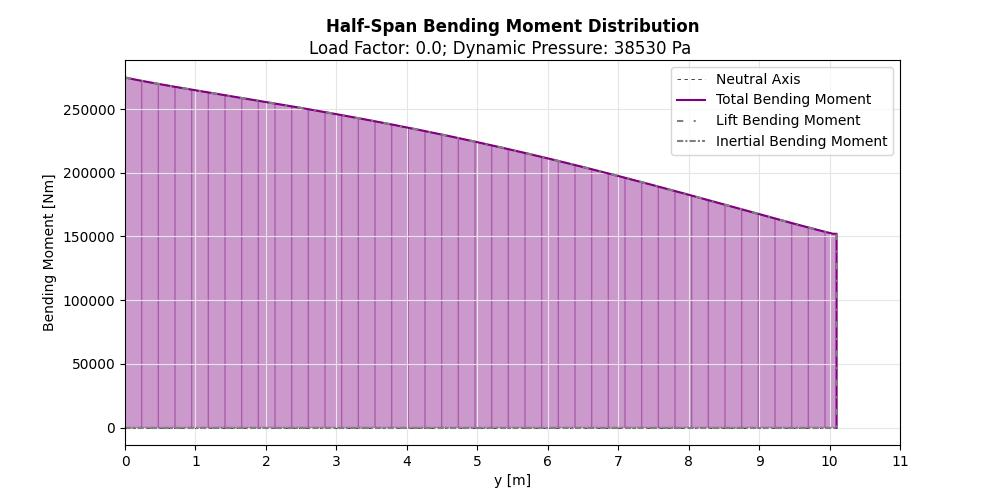
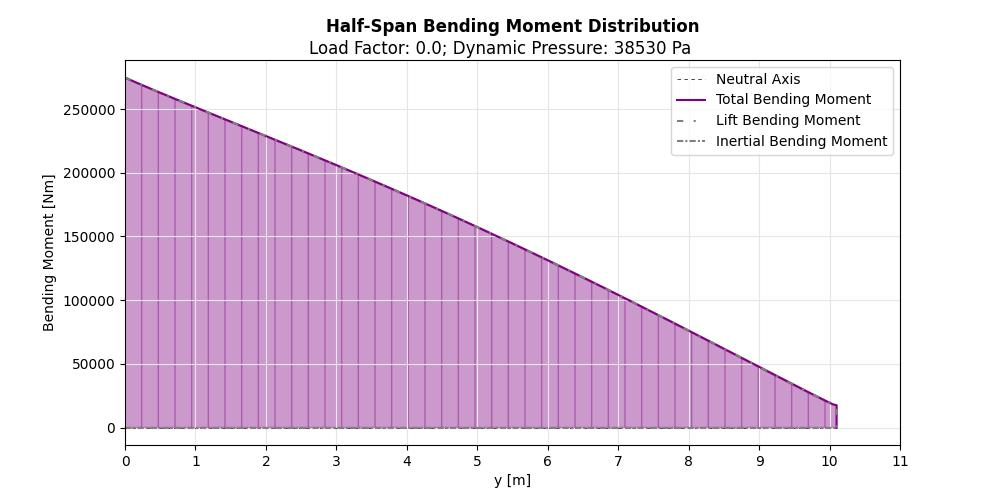
Graphing

Changed region(s): [[0.124, 0.15, 0.837, 0.81]]

diff --git a/main.py b/main.py
@@ -19,6 +19,10 @@ CL2 = sf*0    #0.133858438               #(float(input("Lift Coefficient C_L [-]
 nload1=sf*2.609587504
 CL1 = sf*0.133858438
 
+y=np.linspace(0,10.1,sample)
+x=np.linspace(0,10.1,sample)
+x=np.append(x,10.1)
+
 print("Calculating loading...\n")
 
 def calcForces(sf,nload,q,CL):
@@ -91,10 +95,10 @@ def calcForces(sf,nload,q,CL):
     torque_dist+=winglet_m_torque*nload
     torque_dist[400]=0
     
-    return sum_load,sum_shear,sum_moment,torque_dist
+    return sum_load,sum_shear,sum_moment,torque_dist,shear_dist,inertial_shear,bending_dist,inertial_moment
 
-sum_load1,sum_shear1,sum_moment1,torque_dist1=calcForces(1.5,nload1,q,CL1)
-sum_load2,sum_shear2,sum_moment2,torque_dist2=calcForces(1.5,nload2,q,CL2)
+sum_load1,sum_shear1,sum_moment1,torque_dist1,lift_shear1,inertial_shear1,lift_moment1,inertial_moment1=calcForces(1.5,nload1,q,CL1)
+sum_load2,sum_shear2,sum_moment2,torque_dist2,lift_shear2,inertial_shear2,lift_moment2,inertial_moment2=calcForces(1.5,nload2,q,CL2)
 
 # Plotting
 
@@ -164,7 +168,7 @@ def plot(x,sum_shear,lift_shear,inertial_shear,sum_moment,lift_moment,inertial_m
     plt.plot(x,sum_torque,color='red')
     # plt.plot(x,bending_dist,color='grey',linestyle=(0,(3,5,1,5)))
     # plt.plot(x,inertial_moment,color='grey',linestyle=(0,(3,1,1,1)))
-    plt.legend(('Neutral Axis', 'Total Torque'), loc="upper right")
+    plt.legend(('Neutral Axis', 'Total Torque'), loc="lower right")
 
     plt.fill_between(x, sum_torque, step="pre", alpha=0.4, color='red', hatch='|')
 
@@ -177,4 +181,5 @@ def plot(x,sum_shear,lift_shear,inertial_shear,sum_moment,lift_moment,inertial_m
 
     plt.show()
     
-# plot(x,sum_shear,shear_dist,inertial_shear,sum_moment,bending_dist,inertial_moment,torque_dist,nload,q)
+plot(x,sum_shear1,lift_shear1,inertial_shear1,sum_moment1,lift_moment1,inertial_moment1,torque_dist1,nload1,q)
+plot(x,sum_shear2,lift_shear2,inertial_shear2,sum_moment2,lift_moment2,inertial_moment2,torque_dist2,nload2,q)
